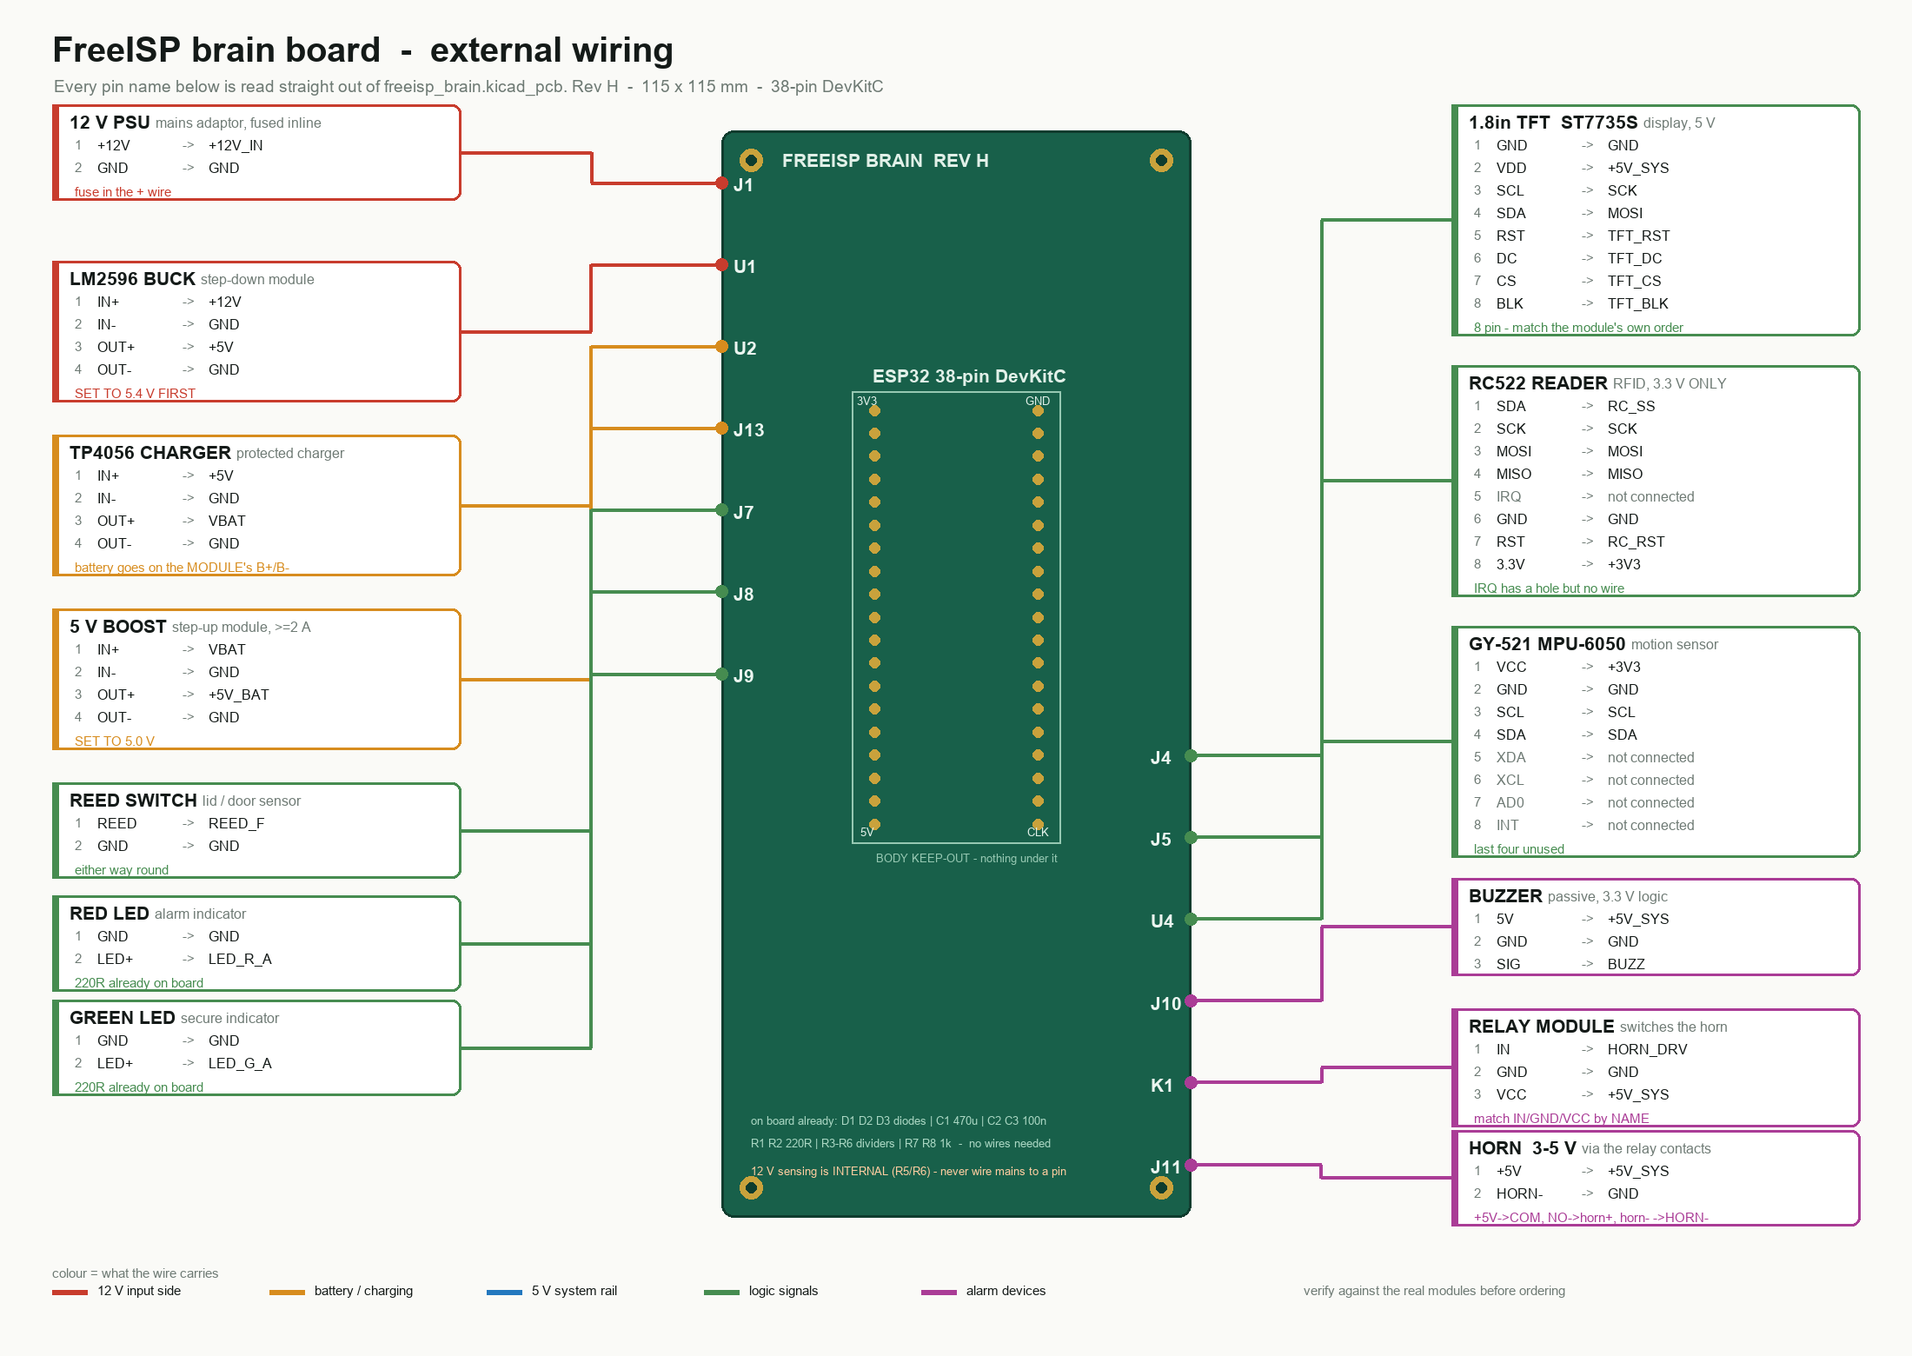
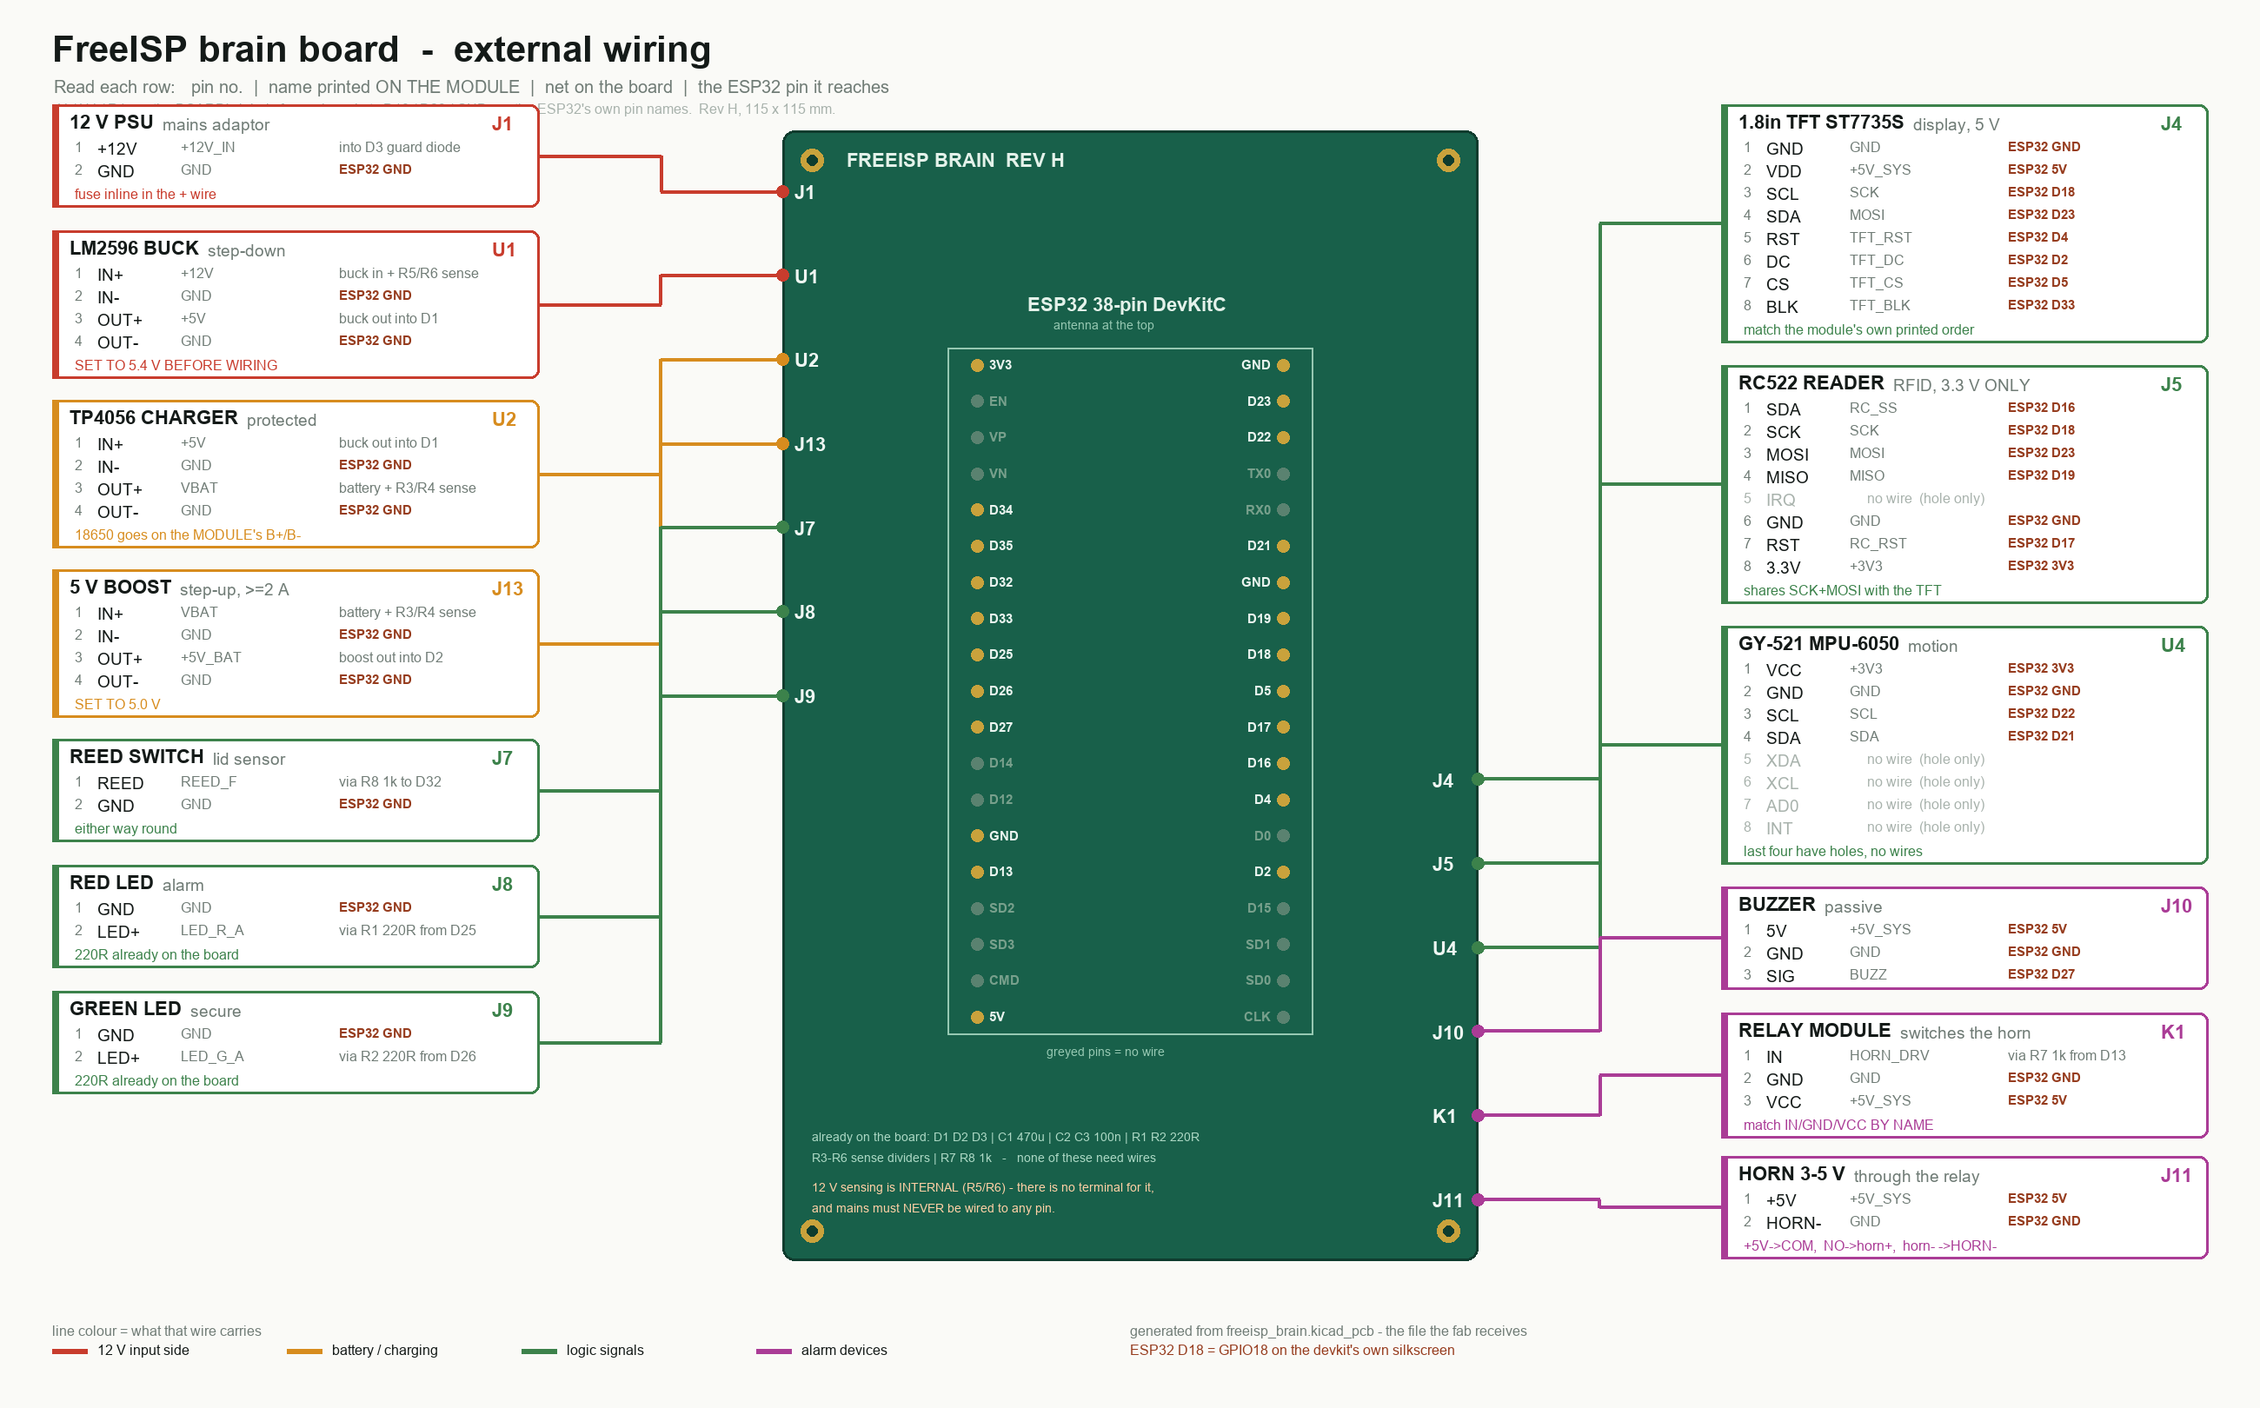
Wiring diagram: show the actual ESP32 pin each wire reaches
Francis asked why J4/U4 carry names like GND/VDD/SCL while the ESP32 shows
numbers - the diagram stopped at the net name and never closed the loop to
the GPIO. Two naming systems, no bridge between them.

Now each row reads: pin no. | name PRINTED ON THE MODULE | net | ESP32 pin,
so "TFT pin 3 SCL -> SCK -> ESP32 D18" is one line. Devkit pin names come
from the board file's pad-to-net data, not a hand table.

Also draws the devkit with all 38 of its real pin names (3V3 EN VP VN D34..
/ GND D23 D22 TX0..), gold where a wire lands and grey where none does, so
the 15 empty pins are visibly deliberate. Nets that never touch a GPIO now
explain themselves ("via R1 220R from D25", "boost out into D2") instead of
showing blank. Header explains that J4/U4/R1 are the BOARD's socket labels
while D18/D23 are the ESP32's own.

diff --git a/pcb/wiring_png.py b/pcb/wiring_png.py
@@ -1,9 +1,10 @@
-"""Draw the external wiring diagram: what plugs into the board, and where.
+"""Draw the external wiring diagram: what plugs in, and which ESP32 pin it reaches.
 
-Reads freeisp_brain.kicad_pcb -- the same file that goes to the fab -- so the
-pin names and nets shown here cannot drift from what is actually made. The
-board sits in the middle; every external part sits around it with a labelled
-line into its connector.
+Reads freeisp_brain.kicad_pcb -- the same file that goes to the fab -- so every
+pin name, net and GPIO shown here comes from what is actually manufactured.
+
+Each row reads left to right:
+    pin no. | name PRINTED ON THE MODULE | net on the board | ESP32 pin it lands on
 
     python wiring_png.py   ->  wiring_diagram.png
 """
@@ -13,21 +14,43 @@ import sexp
 
 BOARD = "freeisp_brain.kicad_pcb"
 OUT = "wiring_diagram.png"
-W, H = 2200, 1560
+W, H = 2600, 1620
 
 BG = (250, 250, 247)
 INK = (20, 26, 24)
-MUTED = (110, 122, 116)
+MUTED = (112, 124, 118)
+FAINT = (168, 178, 172)
 BOARDC = (24, 96, 74)
 BOARD_ED = (14, 60, 46)
 PAD = (201, 162, 60)
+GPIOC = (150, 60, 30)
 
 COL = {
-    "pwr":   (200, 60, 45),     # 12 V / mains side
-    "batt":  (215, 140, 30),    # battery / charge
-    "sys":   (35, 120, 190),    # 5 V system rail
-    "sig":   (70, 140, 80),     # logic signals
-    "alarm": (170, 60, 150),    # alarm devices
+    "pwr":   (200, 60, 45),
+    "batt":  (215, 140, 30),
+    "sig":   (60, 130, 75),
+    "alarm": (170, 60, 150),
+}
+
+# The devkit's own printed pin names, top to bottom, antenna up.
+DEVKIT = {
+    "U3A": ["3V3", "EN", "VP", "VN", "D34", "D35", "D32", "D33", "D25", "D26",
+            "D27", "D14", "D12", "GND", "D13", "SD2", "SD3", "CMD", "5V"],
+    "U3B": ["GND", "D23", "D22", "TX0", "RX0", "D21", "GND", "D19", "D18",
+            "D5", "D17", "D16", "D4", "D0", "D2", "D15", "SD1", "SD0", "CLK"],
+}
+
+# Nets that never touch a GPIO -- say what they are instead of leaving a blank.
+INDIRECT = {
+    "LED_R_A": "via R1 220R from D25",
+    "LED_G_A": "via R2 220R from D26",
+    "REED_F":  "via R8 1k to D32",
+    "HORN_DRV": "via R7 1k from D13",
+    "+12V_IN": "into D3 guard diode",
+    "+12V":    "buck in + R5/R6 sense",
+    "+5V":     "buck out into D1",
+    "+5V_BAT": "boost out into D2",
+    "VBAT":    "battery + R3/R4 sense",
 }
 
 
@@ -40,173 +63,196 @@ def font(sz, bold=False):
     return ImageFont.load_default()
 
 
-F_T = font(40, True)
-F_S = font(19)
-F_B = font(21, True)
-F_P = font(16)
-F_N = font(15)
-F_TINY = font(13)
+F_T, F_S = font(42, True), font(20)
+F_B, F_P = font(22, True), font(19)
+F_N, F_TINY = font(16), font(14)
+F_PIN = font(15, True)
 
 
-def board_pins():
-    """{ref: [(padnum, netname), ...]} straight from the fab file."""
+def board_data():
     with open(BOARD, encoding="utf-8") as fh:
         pcb = sexp.parse(fh.read())
     names = {int(n[1]): sexp.unq(n[2]) for n in sexp.find_all(pcb, "net")}
-    out = {}
+    pads = {}
     for fp in sexp.find_all(pcb, "footprint"):
         ref = "?"
         for prop in sexp.find_all(fp, "property"):
             if sexp.unq(prop[1]) == "Reference":
                 ref = sexp.unq(prop[2])
-        pads = []
+        lst = []
         for pad in sexp.find_all(fp, "pad"):
             if pad[2] == "np_thru_hole":
                 continue
             netn = sexp.find(pad, "net")
-            pads.append((sexp.unq(pad[1]),
-                         names[int(netn[1])] if netn else ""))
-        pads.sort(key=lambda p: int(p[0]) if p[0].isdigit() else 99)
-        out[ref] = pads
-    return out
+            lst.append((sexp.unq(pad[1]),
+                        names[int(netn[1])] if netn else ""))
+        lst.sort(key=lambda p: int(p[0]) if p[0].isdigit() else 99)
+        pads[ref] = lst
+
+    # net -> the devkit pin(s) it lands on
+    esp = {}
+    for ref in ("U3A", "U3B"):
+        for i, (_num, net) in enumerate(pads.get(ref, [])):
+            if net:
+                esp.setdefault(net, []).append(DEVKIT[ref][i])
+    return pads, esp
 
 
-# ref, title, what it is, silk pin names, side, y, colour, extra note
 EXT = [
-    ("J1", "12 V PSU", "mains adaptor, fused inline",
-     ["+12V", "GND"], "L", 120, "pwr", "fuse in the + wire"),
-    ("U1", "LM2596 BUCK", "step-down module",
-     ["IN+", "IN-", "OUT+", "OUT-"], "L", 300, "pwr", "SET TO 5.4 V FIRST"),
-    ("U2", "TP4056 CHARGER", "protected charger",
-     ["IN+", "IN-", "OUT+", "OUT-"], "L", 500, "batt",
-     "battery goes on the MODULE's B+/B-"),
-    ("J13", "5 V BOOST", "step-up module, >=2 A",
-     ["IN+", "IN-", "OUT+", "OUT-"], "L", 700, "batt", "SET TO 5.0 V"),
-    ("J7", "REED SWITCH", "lid / door sensor",
-     ["REED", "GND"], "L", 900, "sig", "either way round"),
-    ("J8", "RED LED", "alarm indicator",
-     ["GND", "LED+"], "L", 1030, "sig", "220R already on board"),
-    ("J9", "GREEN LED", "secure indicator",
-     ["GND", "LED+"], "L", 1150, "sig", "220R already on board"),
+    ("J1", "12 V PSU", "mains adaptor", ["+12V", "GND"], "L", 120, "pwr",
+     "fuse inline in the + wire"),
+    ("U1", "LM2596 BUCK", "step-down", ["IN+", "IN-", "OUT+", "OUT-"],
+     "L", 265, "pwr", "SET TO 5.4 V BEFORE WIRING"),
+    ("U2", "TP4056 CHARGER", "protected", ["IN+", "IN-", "OUT+", "OUT-"],
+     "L", 460, "batt", "18650 goes on the MODULE's B+/B-"),
+    ("J13", "5 V BOOST", "step-up, >=2 A", ["IN+", "IN-", "OUT+", "OUT-"],
+     "L", 655, "batt", "SET TO 5.0 V"),
+    ("J7", "REED SWITCH", "lid sensor", ["REED", "GND"], "L", 850, "sig",
+     "either way round"),
+    ("J8", "RED LED", "alarm", ["GND", "LED+"], "L", 995, "sig",
+     "220R already on the board"),
+    ("J9", "GREEN LED", "secure", ["GND", "LED+"], "L", 1140, "sig",
+     "220R already on the board"),
 
-    ("J4", "1.8in TFT  ST7735S", "display, 5 V",
+    ("J4", "1.8in TFT ST7735S", "display, 5 V",
      ["GND", "VDD", "SCL", "SDA", "RST", "DC", "CS", "BLK"], "R", 120, "sig",
-     "8 pin - match the module's own order"),
+     "match the module's own printed order"),
     ("J5", "RC522 READER", "RFID, 3.3 V ONLY",
      ["SDA", "SCK", "MOSI", "MISO", "IRQ", "GND", "RST", "3.3V"], "R", 420,
-     "sig", "IRQ has a hole but no wire"),
-    ("U4", "GY-521 MPU-6050", "motion sensor",
+     "sig", "shares SCK+MOSI with the TFT"),
+    ("U4", "GY-521 MPU-6050", "motion",
      ["VCC", "GND", "SCL", "SDA", "XDA", "XCL", "AD0", "INT"], "R", 720, "sig",
-     "last four unused"),
-    ("J10", "BUZZER", "passive, 3.3 V logic",
-     ["5V", "GND", "SIG"], "R", 1010, "alarm", ""),
-    ("K1", "RELAY MODULE", "switches the horn",
-     ["IN", "GND", "VCC"], "R", 1160, "alarm", "match IN/GND/VCC by NAME"),
-    ("J11", "HORN  3-5 V", "via the relay contacts",
-     ["+5V", "HORN-"], "R", 1300, "alarm",
-     "+5V->COM, NO->horn+, horn- ->HORN-"),
+     "last four have holes, no wires"),
+    ("J10", "BUZZER", "passive", ["5V", "GND", "SIG"], "R", 1020, "alarm", ""),
+    ("K1", "RELAY MODULE", "switches the horn", ["IN", "GND", "VCC"],
+     "R", 1165, "alarm", "match IN/GND/VCC BY NAME"),
+    ("J11", "HORN 3-5 V", "through the relay", ["+5V", "HORN-"], "R", 1330,
+     "alarm", "+5V->COM,  NO->horn+,  horn- ->HORN-"),
 ]
 
-BX0, BY0, BX1, BY1 = 830, 150, 1370, 1400
+BX0, BY0, BX1, BY1 = 900, 150, 1700, 1450
+BWID = 560
 
 
 def main():
-    pins = board_pins()
+    pads, esp = board_data()
     img = Image.new("RGB", (W, H), BG)
     d = ImageDraw.Draw(img)
 
-    d.text((60, 34), "FreeISP brain board  -  external wiring", INK, font=F_T)
+    d.text((60, 32), "FreeISP brain board  -  external wiring", INK, font=F_T)
     d.text((62, 88),
-           "Every pin name below is read straight out of freeisp_brain.kicad_pcb. "
-           "Rev H  -  115 x 115 mm  -  38-pin DevKitC",
-           MUTED, font=F_S)
+           "Read each row:   pin no.  |  name printed ON THE MODULE  |  net on the board  |  "
+           "the ESP32 pin it reaches", MUTED, font=F_S)
+    d.text((62, 116),
+           "J4 / U4 / R1 are the BOARD's labels for each socket.  D18 / D23 / GND are the "
+           "ESP32's own pin names.  Rev H, 115 x 115 mm.", FAINT, font=F_N)
 
-    # ---- the board ----
+    # ---------------- the board ----------------
     d.rounded_rectangle([BX0, BY0, BX1, BY1], 14, fill=BOARDC, outline=BOARD_ED, width=3)
     for cx, cy in ((BX0 + 34, BY0 + 34), (BX1 - 34, BY0 + 34),
                    (BX0 + 34, BY1 - 34), (BX1 - 34, BY1 - 34)):
         d.ellipse([cx - 13, cy - 13, cx + 13, cy + 13], fill=PAD)
         d.ellipse([cx - 6, cy - 6, cx + 6, cy + 6], fill=BOARD_ED)
-    d.text((BX0 + 70, BY0 + 22), "FREEISP BRAIN  REV H", (225, 240, 232), font=F_B)
+    d.text((BX0 + 74, BY0 + 22), "FREEISP BRAIN  REV H", (228, 242, 234), font=F_B)
 
-    # the devkit, drawn as it sits: sockets + keep-out
-    kx0, ky0, kx1, ky1 = BX0 + 150, BY0 + 300, BX1 - 150, BY1 - 430
+    # devkit with its real pin names
+    kx0, kx1 = BX0 + 190, BX1 - 190
+    ky0, ky1 = BY0 + 250, BY1 - 260
     d.rectangle([kx0, ky0, kx1, ky1], outline=(150, 200, 178), width=2)
-    d.text(((kx0 + kx1) // 2 - 96, ky0 - 30), "ESP32 38-pin DevKitC", (225, 240, 232), font=F_B)
-    d.text(((kx0 + kx1) // 2 - 92, ky1 + 10), "BODY KEEP-OUT - nothing under it", (150, 200, 178), font=F_TINY)
+    d.text(((kx0 + kx1) // 2 - 118, ky0 - 62), "ESP32 38-pin DevKitC",
+           (228, 242, 234), font=F_B)
+    d.text(((kx0 + kx1) // 2 - 88, ky0 - 34), "antenna at the top",
+           (150, 200, 178), font=F_TINY)
+
+    step = (ky1 - ky0 - 40) / 18
     for i in range(19):
-        yy = ky0 + 22 + i * ((ky1 - ky0 - 44) / 18)
-        for xx in (kx0 + 26, kx1 - 26):
-            d.ellipse([xx - 6, yy - 6, xx + 6, yy + 6], fill=PAD)
-    d.text((kx0 + 6, ky0 + 4), "3V3", (225, 240, 232), font=F_TINY)
-    d.text((kx0 + 10, ky1 - 20), "5V", (225, 240, 232), font=F_TINY)
-    d.text((kx1 - 40, ky0 + 4), "GND", (225, 240, 232), font=F_TINY)
-    d.text((kx1 - 38, ky1 - 20), "CLK", (225, 240, 232), font=F_TINY)
+        yy = ky0 + 20 + i * step
+        for ref, xx, anchor in (("U3A", kx0 + 34, "l"), ("U3B", kx1 - 34, "r")):
+            net = pads[ref][i][1] if i < len(pads[ref]) else ""
+            lit = bool(net)
+            d.ellipse([xx - 7, yy - 7, xx + 7, yy + 7],
+                      fill=PAD if lit else (90, 130, 112))
+            lab = DEVKIT[ref][i]
+            c = (235, 245, 240) if lit else (120, 160, 140)
+            if anchor == "l":
+                d.text((xx + 14, yy - 9), lab, c, font=F_PIN)
+            else:
+                d.text((xx - 14 - d.textlength(lab, font=F_PIN), yy - 9), lab, c, font=F_PIN)
+    d.text(((kx0 + kx1) // 2 - 96, ky1 + 12), "greyed pins = no wire",
+           (150, 200, 178), font=F_TINY)
 
-    # on-board-only parts, so nothing looks missing
-    d.text((BX0 + 34, BY1 - 118),
-           "on board already: D1 D2 D3 diodes | C1 470u | C2 C3 100n",
-           (170, 215, 195), font=F_TINY)
+    d.text((BX0 + 34, BY1 - 150),
+           "already on the board: D1 D2 D3 | C1 470u | C2 C3 100n | R1 R2 220R",
+           (172, 216, 196), font=F_TINY)
+    d.text((BX0 + 34, BY1 - 126),
+           "R3-R6 sense dividers | R7 R8 1k   -   none of these need wires",
+           (172, 216, 196), font=F_TINY)
     d.text((BX0 + 34, BY1 - 92),
-           "R1 R2 220R | R3-R6 dividers | R7 R8 1k  -  no wires needed",
-           (170, 215, 195), font=F_TINY)
-    d.text((BX0 + 34, BY1 - 60),
-           "12 V sensing is INTERNAL (R5/R6) - never wire mains to a pin",
-           (255, 205, 160), font=F_TINY)
+           "12 V sensing is INTERNAL (R5/R6) - there is no terminal for it,",
+           (255, 208, 165), font=F_TINY)
+    d.text((BX0 + 34, BY1 - 68),
+           "and mains must NEVER be wired to any pin.", (255, 208, 165), font=F_TINY)
 
-    # ---- external blocks ----
+    # ---------------- external blocks ----------------
+    order = [e[0] for e in EXT]
     for ref, title, what, silk, side, y, ckey, note in EXT:
         c = COL[ckey]
-        actual = pins.get(ref, [])
-        bw, bh = 470, 34 + 26 * len(silk) + (24 if note else 0)
-        bx = 60 if side == "L" else W - 60 - bw
-        by = y
+        actual = pads.get(ref, [])
+        bh = 40 + 26 * len(silk) + (26 if note else 0)
+        bx = 60 if side == "L" else W - 60 - BWID
 
-        d.rounded_rectangle([bx, by, bx + bw, by + bh], 10,
+        d.rounded_rectangle([bx, y, bx + BWID, y + bh], 10,
                             fill=(255, 255, 255), outline=c, width=3)
-        d.rectangle([bx, by, bx + 7, by + bh], fill=c)
-        d.text((bx + 20, by + 8), title, INK, font=F_B)
-        tw = d.textlength(title, font=F_B)
-        d.text((bx + 26 + tw, by + 12), what, MUTED, font=F_P)
+        d.rectangle([bx, y, bx + 7, y + bh], fill=c)
+        d.text((bx + 20, y + 8), title, INK, font=F_B)
+        d.text((bx + 30 + d.textlength(title, font=F_B), y + 12), what, MUTED, font=F_P)
+        d.text((bx + BWID - 54, y + 10), ref, c, font=F_B)
 
         for i, nm in enumerate(silk):
-            py = by + 38 + i * 26
+            py = y + 40 + i * 26
             net = actual[i][1] if i < len(actual) else ""
-            shown = net if net else "not connected"
-            col = MUTED if not net else INK
+            if not net:
+                d.text((bx + 26, py), f"{i + 1}", FAINT, font=F_N)
+                d.text((bx + 52, py), nm, FAINT, font=F_P)
+                d.text((bx + 168, py), "no wire  (hole only)", FAINT, font=F_N)
+                continue
             d.text((bx + 26, py), f"{i + 1}", MUTED, font=F_N)
-            d.text((bx + 52, py), nm, col, font=F_P)
-            d.text((bx + 150, py), "->", MUTED, font=F_N)
-            d.text((bx + 180, py), shown, col, font=F_P)
-        if note:
-            d.text((bx + 26, by + 40 + 26 * len(silk)), note, c, font=F_N)
+            d.text((bx + 52, py), nm, INK, font=F_P)
+            d.text((bx + 148, py), net, MUTED, font=F_N)
+            gp = esp.get(net)
+            if gp:
+                uniq = sorted(set(gp), key=gp.index)
+                d.text((bx + 330, py), "ESP32 " + "/".join(uniq), GPIOC, font=F_PIN)
+            else:
+                d.text((bx + 330, py), INDIRECT.get(net, ""), MUTED, font=F_N)
 
-        # line into the board
-        ax = bx + bw if side == "L" else bx
-        ay = by + bh // 2
+        if note:
+            d.text((bx + 26, y + 42 + 26 * len(silk)), note, c, font=F_N)
+
+        ax = bx + BWID if side == "L" else bx
+        ay = y + bh // 2
         tx = BX0 if side == "L" else BX1
-        ty = BY0 + 60 + (BY1 - BY0 - 120) * (
-            [e[0] for e in EXT].index(ref) / (len(EXT) - 1))
+        ty = BY0 + 70 + (BY1 - BY0 - 140) * (order.index(ref) / (len(EXT) - 1))
         midx = (ax + tx) // 2
         d.line([(ax, ay), (midx, ay), (midx, ty), (tx, ty)], fill=c, width=4)
         d.ellipse([tx - 7, ty - 7, tx + 7, ty + 7], fill=c)
-        d.text((tx + 14 if side == "L" else tx - 46, ty - 10), ref,
-               (235, 245, 240), font=F_B)
+        d.text((tx + 14 if side == "L" else tx - 52, ty - 11), ref,
+               (238, 246, 242), font=F_B)
 
-    # ---- legend ----
-    ly = H - 74
-    d.text((60, ly - 30), "colour = what the wire carries", MUTED, font=F_N)
+    # ---------------- legend ----------------
+    ly = H - 66
+    d.text((60, ly - 32), "line colour = what that wire carries", MUTED, font=F_N)
     for i, (k, lab) in enumerate([("pwr", "12 V input side"),
                                   ("batt", "battery / charging"),
-                                  ("sys", "5 V system rail"),
                                   ("sig", "logic signals"),
                                   ("alarm", "alarm devices")]):
-        x = 60 + i * 250
+        x = 60 + i * 270
         d.line([(x, ly), (x + 40, ly)], fill=COL[k], width=6)
         d.text((x + 52, ly - 10), lab, INK, font=F_N)
-
-    d.text((W - 700, ly - 10),
-           "verify against the real modules before ordering", MUTED, font=F_N)
+    d.text((1300, ly - 10), "ESP32 D18 = GPIO18 on the devkit's own silkscreen",
+           GPIOC, font=F_N)
+    d.text((1300, ly - 32), "generated from freeisp_brain.kicad_pcb - the file the fab receives",
+           MUTED, font=F_N)
 
     img.save(OUT)
     print(f"wrote {OUT}  ({W}x{H})")
